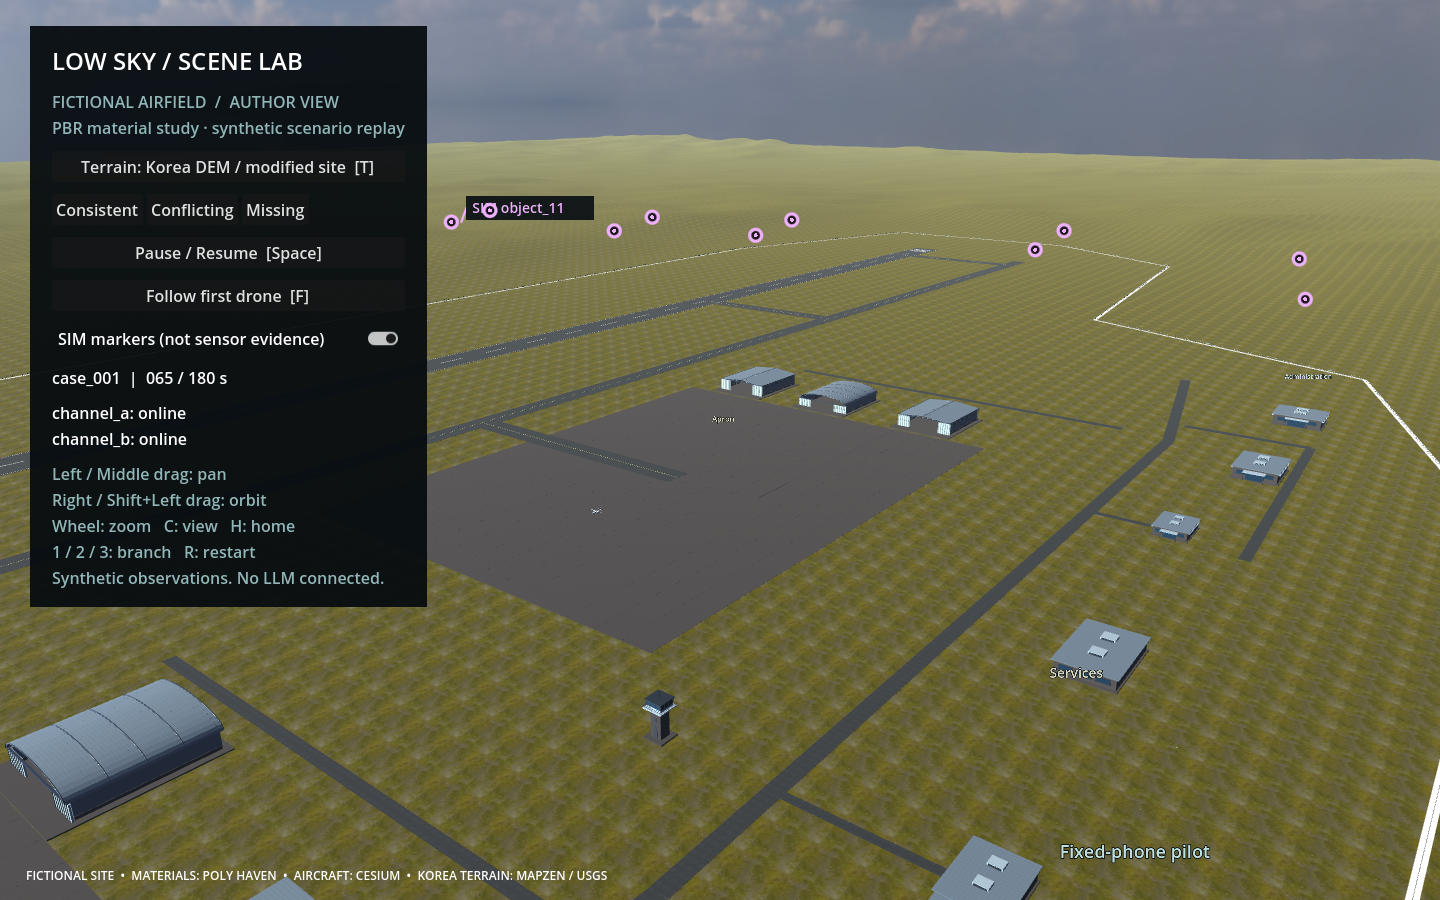
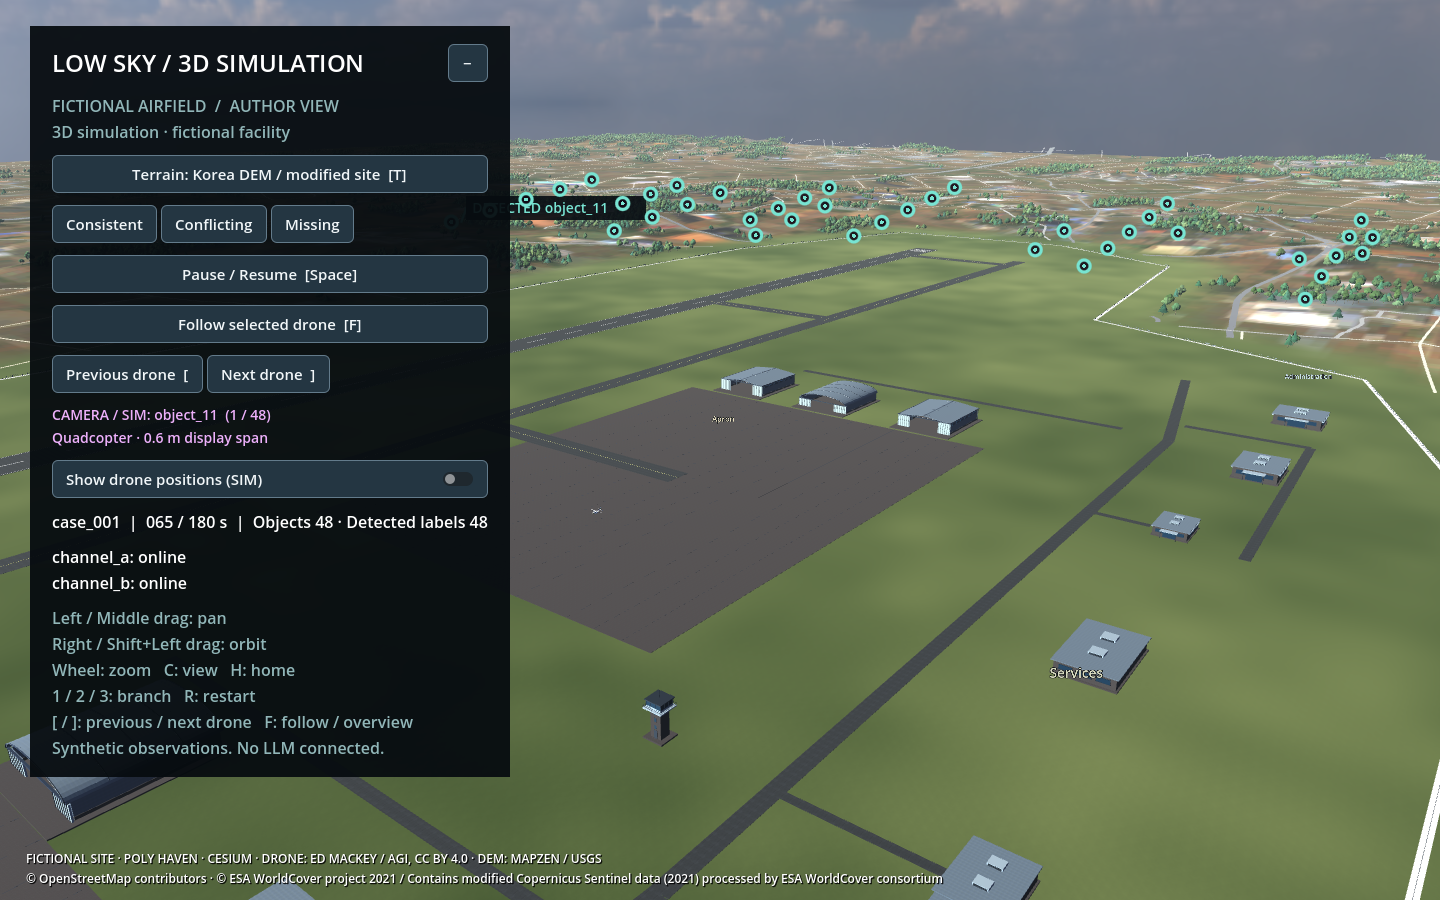
Document and capture the updated 3D simulation

diff --git a/README.md b/README.md
@@ -45,7 +45,7 @@ python3 tools/monitor_server.py
 
 Open http://127.0.0.1:8765. The language selector stores the choice in this browser. Run a new simulation test with an optional seed; pause, resume, seek, template selection, and speed control the shared simulation. `--monitor` disables Godot's replay controls while keeping camera and terrain controls available. Godot pauses on disconnection and resynchronizes when the connection returns. The web play button does not launch Godot; open the 3D window separately.
 
-The synchronized view starts at the overview. By default, 3D labels and screen markers appear only for fresh received detections. **Show drone positions (SIM)** is off initially; turn it on to label every simulated drone in purple, including undetected objects. Physical drone bodies continue moving in the 3D simulation. The map has its own **Show drone positions** switch, also off initially, with a separate purple truth layer and warning. These switches are independent display preferences. **Previous drone / Next drone** or **[ / ]** selects and follows any drone, wrapping at the ends. **F / Follow selected drone** toggles that selection and the overview; manual camera movement cancels follow mode. The `CAMERA / SIM` ID and index describe author-camera selection, not detection; received-only world labels remain unchanged. Selecting another template resets the camera selection. The drone model keeps its provisional **0.6 m maximum horizontal span, including propellers**. Profiles live in `godot/assets/display_profiles.json`, selected by each object's `visual.size_profile`.
+The synchronized view starts at the overview. By default, 3D labels and screen markers appear only for fresh received detections. **Show drone positions (SIM)** is off initially; turn it on to label every simulated drone in purple, including undetected objects. Physical drone bodies continue moving in the 3D simulation. The map has its own **Show drone positions** switch, also off initially, with a separate purple truth layer and warning. These switches are independent display preferences. **Previous drone / Next drone** or **[ / ]** selects and follows any drone, wrapping at the ends. **F / Follow selected drone** toggles that selection and the overview; manual camera movement cancels follow mode. The `CAMERA / SIM` ID and index describe author-camera selection, not detection; received-only world labels remain unchanged. Selecting another template resets the camera selection. The author view provides **14 airframe variants**, including the free textured CesiumDrone (CC BY 4.0) and procedural visual approximations informed by the scenario documents. Small quads retain a provisional **0.6 m maximum horizontal span**; other airframes use separate provisional size profiles. Follow distance scales with the model. Select `visual.airframe_id` and optionally override `visual.size_profile` using `godot/assets/display_profiles.json`. See the [rendered catalog](artifacts/drone-catalog.png) and [free asset review](docs/drone-asset-review.md).
 
 Without the server, Godot runs independently:
 
@@ -61,7 +61,7 @@ Without the server, Godot runs independently:
 | F | Follow selected drone / overview |
 | T / Terrain | Korean DEM → synthetic plains → synthetic hills |
 
-Start drags outside the control panel. `-- --plains` and `-- --hills` choose synthetic terrain presets; `-- --stylized` and `-- --blockout` select alternative assets. Terrain switching preserves the replay. The scene is an early photorealistic prototype; final environment art and aircraft replacement remain unfinished.
+The panel’s upper-right **− / +** button collapses/expands its controls without changing playback or the camera. Buttons use explicit borders and hover, pressed, disabled and focus states. Start drags outside the control panel. `-- --plains` and `-- --hills` choose synthetic terrain presets; `-- --stylized` and `-- --blockout` select alternative assets. Terrain switching preserves the replay. The scene is an early photorealistic prototype; final environment art and aircraft replacement remain unfinished.
 
 ## Seeded simulation tests
 
@@ -84,7 +84,7 @@ API: `POST /api/control` with `{"action":"start_test","case_id":"case_003","seed
 
 ## Observations and simulation time
 
-Godot is an **authoring view** showing simulated object movement even before detection and when observations stop. Physical 0.6 m drone models always remain visible; only labels follow detection visibility. The count distinguishes all scene objects from detected labels. By default, the map and 3D labels show only fresh received detections. When evidence expires or its sources go offline, map markers and 3D labels disappear; the evidence list retains the last report and timestamp. Explicit negative detection rows (`detected: false`) do not reveal objects. The optional **Show drone positions** layer requests `/api/state?show_positions=1`, which returns separate `simulation_positions` at that same replay time. Truth never becomes an observation, alert, or review input; switching off or reloading hides it. Positions come from synthetic samples, normally ten seconds apart; delayed reports remain hidden until `available_at_ms`. All templates begin with no received tracks. In the baseline fixtures, first reports arrive at 00:10 and objects appear progressively through 01:00; seeded tests add delivery variation. Detection does not establish hostile intent.
+Godot is an **authoring view** showing simulated object movement even before detection and when observations stop. Physical drone models at their configured sizes always remain visible; only labels follow detection visibility. The count distinguishes all scene objects from detected labels. By default, the map and 3D labels show only fresh received detections. When evidence expires or its sources go offline, map markers and 3D labels disappear; the evidence list retains the last report and timestamp. Explicit negative detection rows (`detected: false`) do not reveal objects. The optional **Show drone positions** layer requests `/api/state?show_positions=1`, which returns separate `simulation_positions` at that same replay time. Truth never becomes an observation, alert, or review input; switching off or reloading hides it. Positions come from synthetic samples, normally ten seconds apart; delayed reports remain hidden until `available_at_ms`. All templates begin with no received tracks. In the baseline fixtures, first reports arrive at 00:10 and objects appear progressively through 01:00; seeded tests add delivery variation. Detection does not establish hostile intent.
 
 Contradiction, channel loss, and stale-position alerts describe observation quality. Channels A/B are not physical RF or fiber models. Acknowledgements apply to the current run, clear on seek/reset/case change, and disappear when the server restarts. At most 1,000 acknowledgement records remain in server memory; this is not a permanent audit log.
 
@@ -255,7 +255,7 @@ The map labels the site **Fictional terrain replacement**. An opaque synthetic s
 
 Only visible OSM tiles are requested, with attribution and no bulk download or offline storage, following the [tile policy](https://operations.osmfoundation.org/policies/tiles/). Use `?tiles=off` for automated UI checks. The site plan and 3D work without tile networking. Google Maps/Earth content is not used.
 
-The terrain uses bilinear interpolation of the N36E127 HGT from [AWS Terrain Tiles](https://registry.opendata.aws/terrain-tiles/). Source grid spacing is one arcsecond; display spacing is 50 m. Reference elevation 5 m maps to local Y=0 without vertical exaggeration. Checksums and processing provenance are in `data/terrain/`. The flattened site and transition area are synthetic; surrounding terrain retains relative DEM elevation. Satellite imagery, actual buildings, and vegetation distribution are not imported. The earlier Ukraine-inspired synthetic plains remain as a comparison preset.
+The terrain uses bilinear interpolation of the N36E127 HGT from [AWS Terrain Tiles](https://registry.opendata.aws/terrain-tiles/). Source grid spacing is one arcsecond; display spacing is 50 m. Reference elevation 5 m maps to local Y=0 without vertical exaggeration. Checksums and processing provenance are in `data/terrain/`. The flattened site and transition area are synthetic; surrounding terrain retains relative DEM elevation. The same extent now uses a 2021 Sentinel-2 composite, ESA WorldCover-guided forest instances, and OSM road centerlines/building footprints. Heights and individual trees are approximate, and OSM coverage is incomplete; see [surroundings, provenance and limitations](docs/korean-surroundings.md) and [asset licenses](godot/assets/terrain/ATTRIBUTION.md). The earlier Ukraine-inspired synthetic plains remain as a comparison preset.
 
 External model quality and geographic accuracy are separate. Scale, pivot, and placement are adjusted for visualization:
 
@@ -277,6 +277,8 @@ python3 tools/scenario_dataset.py build
 python3 tools/fetch_asset_sample.py
 python3 tools/fetch_realistic_assets.py
 python3 tools/fetch_korean_terrain.py
+python3 tools/fetch_korean_context.py
+python3 tools/build_korean_context.py
 /Applications/Godot.app/Contents/MacOS/Godot --headless --path godot --editor --import
 ```
 
